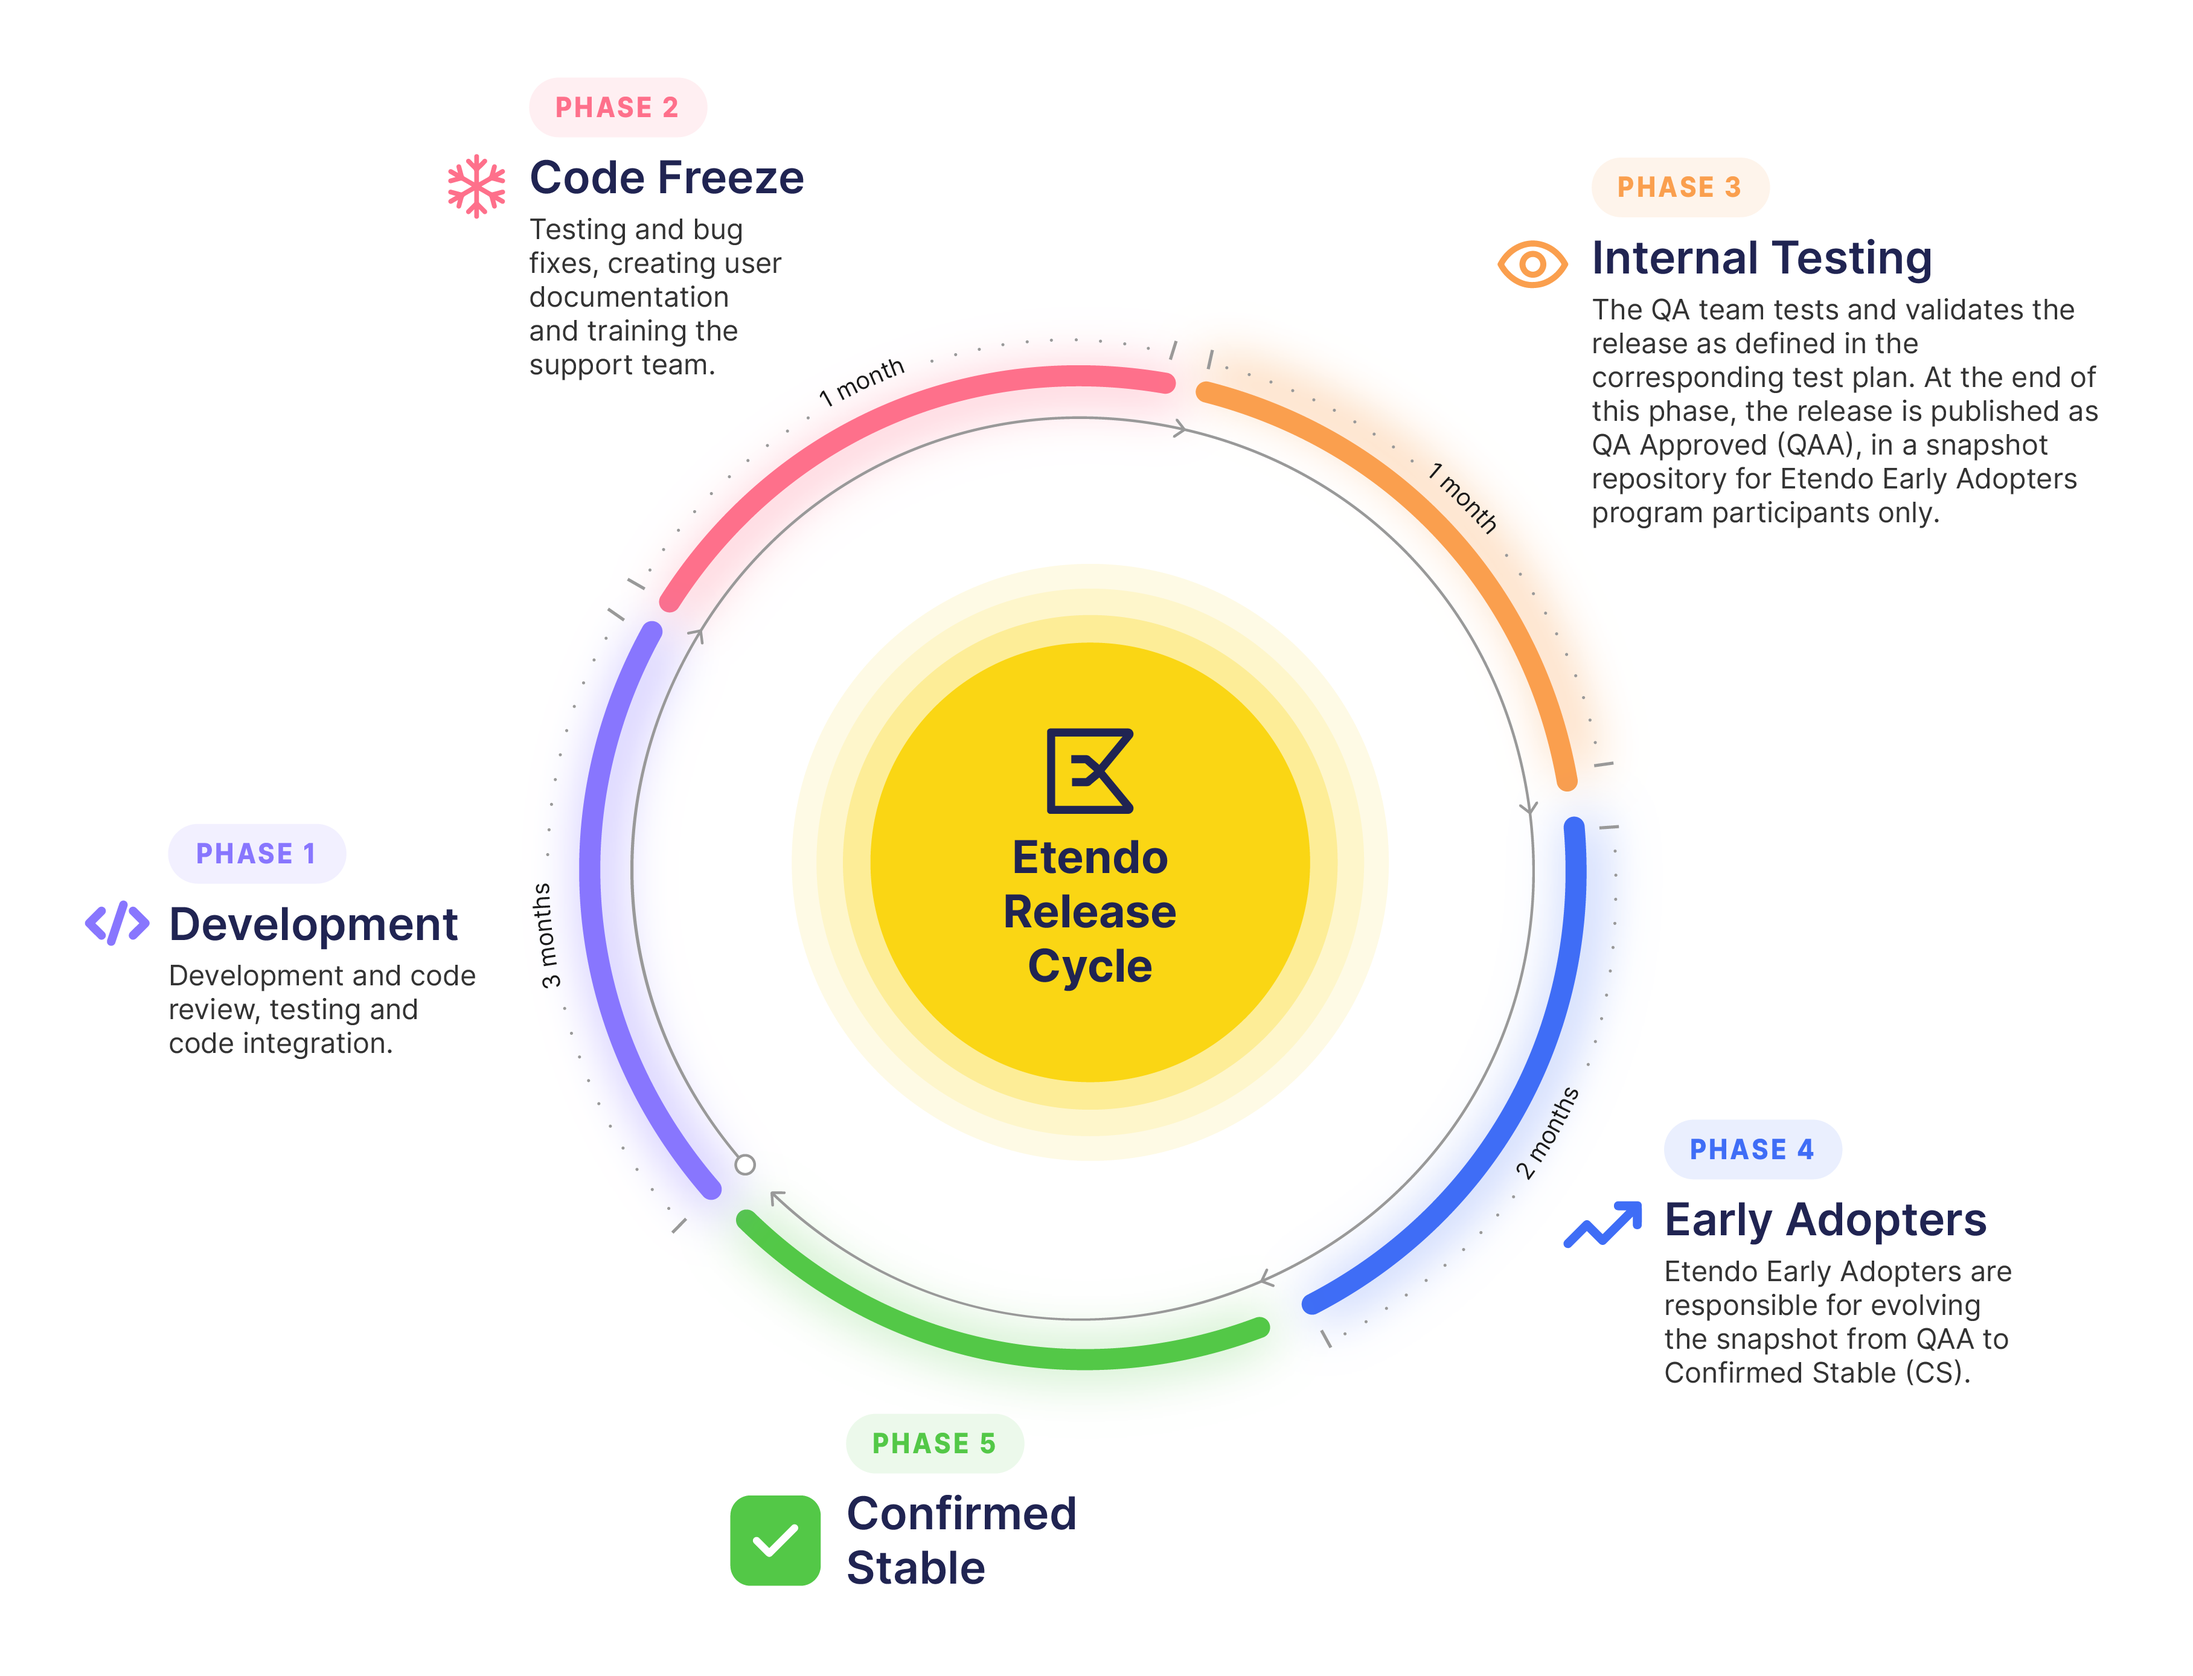
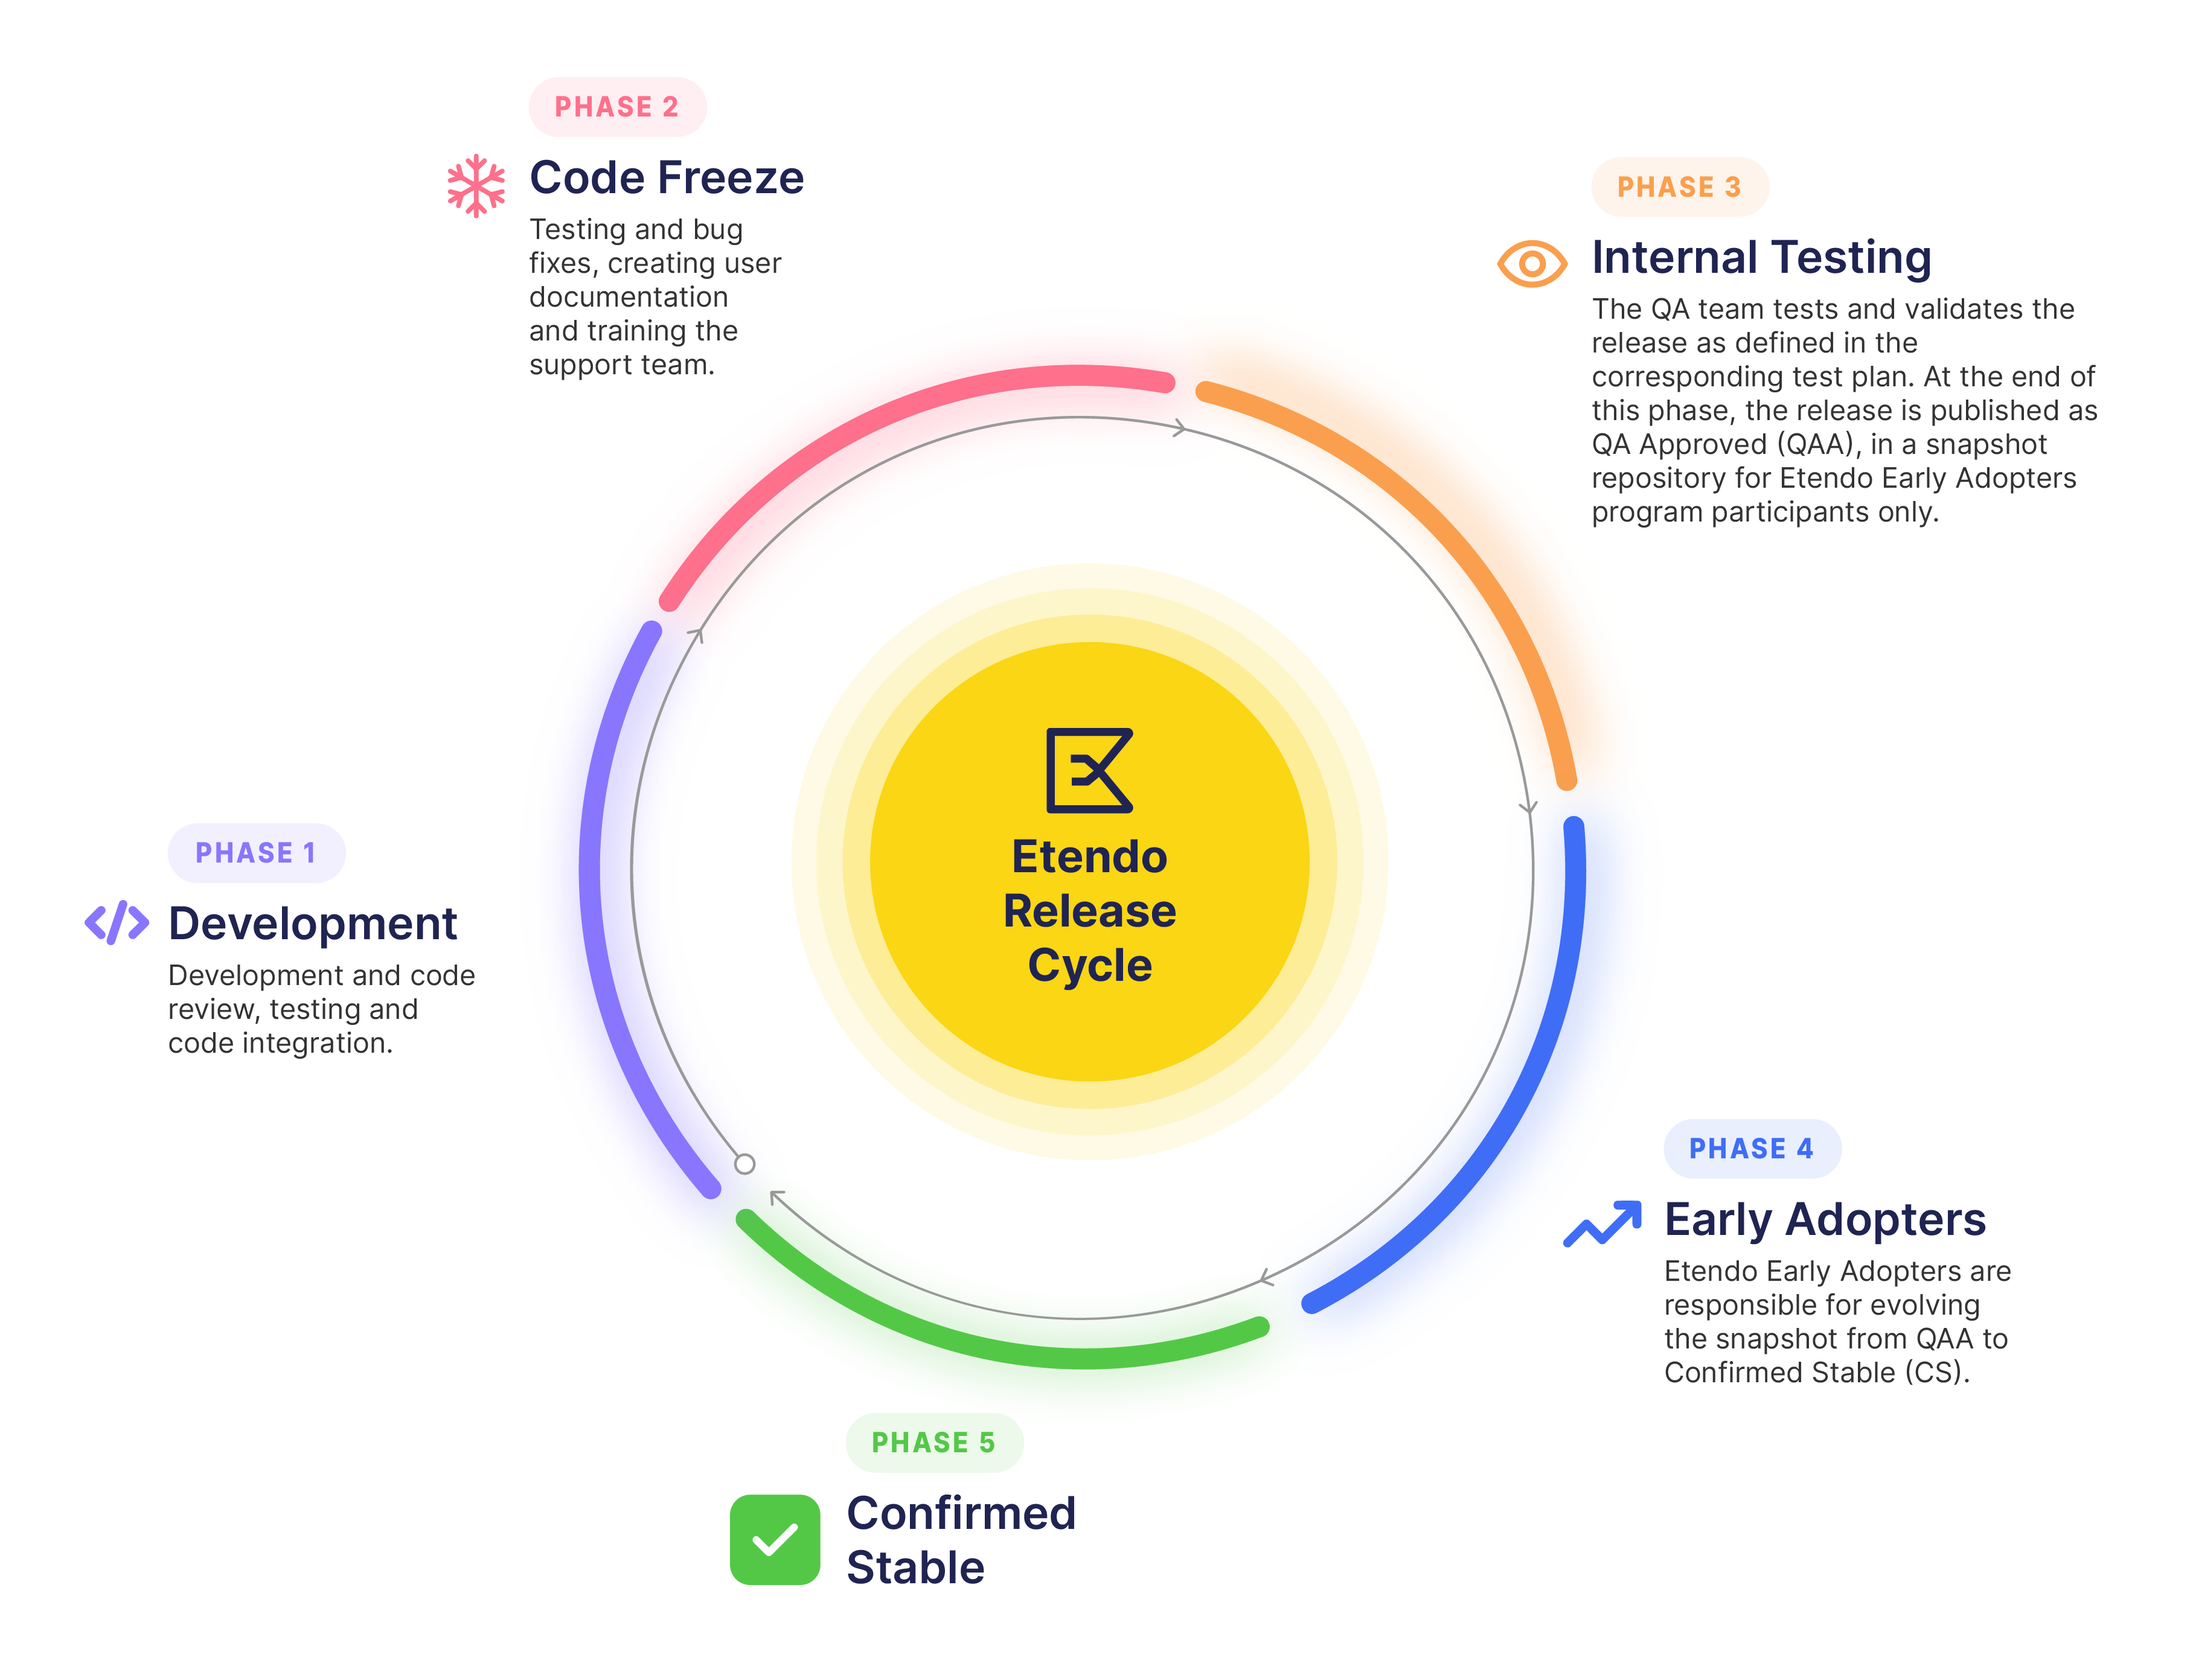
Feature ETP-197: Edit written content and updated screenshots.

diff --git a/docs/whats-new/etendo-release-cycle.md b/docs/whats-new/etendo-release-cycle.md
@@ -25,22 +25,21 @@ Etendo solutions are released on a quarterly basis.
 
 ![new-etendo-lifecycle](../assets/whats-new/etendo-release-cycle/new-etendo-lifecycle.png)
 
-As shown in the image above, the duration of a release cycle is seven months. For instance, and in the case of Etendo Y1Q4 design and development activities started dated on 1st June  and will finish at release dated on December 31st.
+As shown in the image above, the duration of a release cycle is nine months. For instance, and in the case of Etendo Y1Q4 design and development activities started dated on July 1st and will finish at release dated on March 31st.
 
 ## Release Phases
 
-The release process consists of the following phases
+The release process consists of the following phases: 
 
 - 3 month development cycles, when engineering team focus on **code development & review, testing and code integration**
-- 1 additional month for the engineering team to **test and fix the bugs found**, as well as to **create the user documentation and train** the support team.
-- 1 month for the **QA team to test and validate the release** according to what defined in the corresponding Test Plan. At the end of this phase, the release is published as QA Approved (QAA), in a snapshot repository only for participants in the Etendo Early Adopters Program.
-- 2 months **maturation cycle to evolve from QAA to Confirmed Stable** (CS), published in the releases Nexus repository.
+- 3 additional months for the engineering team to **test and fix the bugs found**, as well as to **create the user documentation and train** the support team.
+- 3 months for the **QA team to test and validate the release** according to what defined in the corresponding Test Plan. At the beginning of this phase, the release is published as QA Approved (QAA) for participants in the Etendo Early Adopters Program. After this process, there's a **maturation cycle to evolve from QAA to Confirmed Stable** (CS), published in the releases repository.
 
 ![etendo-release-cycle-phase.png](../assets/whats-new/etendo-release-cycle/etendo-release-cycle-phase.png)
 
-Etendo strongly recommends that only releases that have reached CS are used in production environments
+Etendo strongly recommends that only releases that have reached CS are used in production environments.
 
-In summary, Etendo will release Confirmed Stable (CS) releases in March (i.e ET18Q1), June (i.e. ET18Q2), September (i.e. ET18Q3), and December (i.e. ET18Q4) on a yearly basis.
+In summary, Etendo will release Confirmed Stable (CS) releases in March, June, September, and December on a yearly basis.
 
 !!! info
 
@@ -60,7 +59,7 @@ As part of the Innovators program, interested Partners will receive support in t
 
 ### Emergency Releases
 
-Apart, when required there are out of schedule emergency releases which are used to for targeted fixing of very important bugs. These bugs may have been reported by our partners, members of the development team or simply bugs found by our automations that are periodically testing our products.
+When required, there are out of schedule emergency releases which are used for targeted fixing of very important bugs. These bugs may have been reported by our partners, members of the development team or simply bugs found by our automations that are periodically testing our products.
 
 Those releases can be identified by their version which is constructed as follows ETXXQY.Z, where :
 
